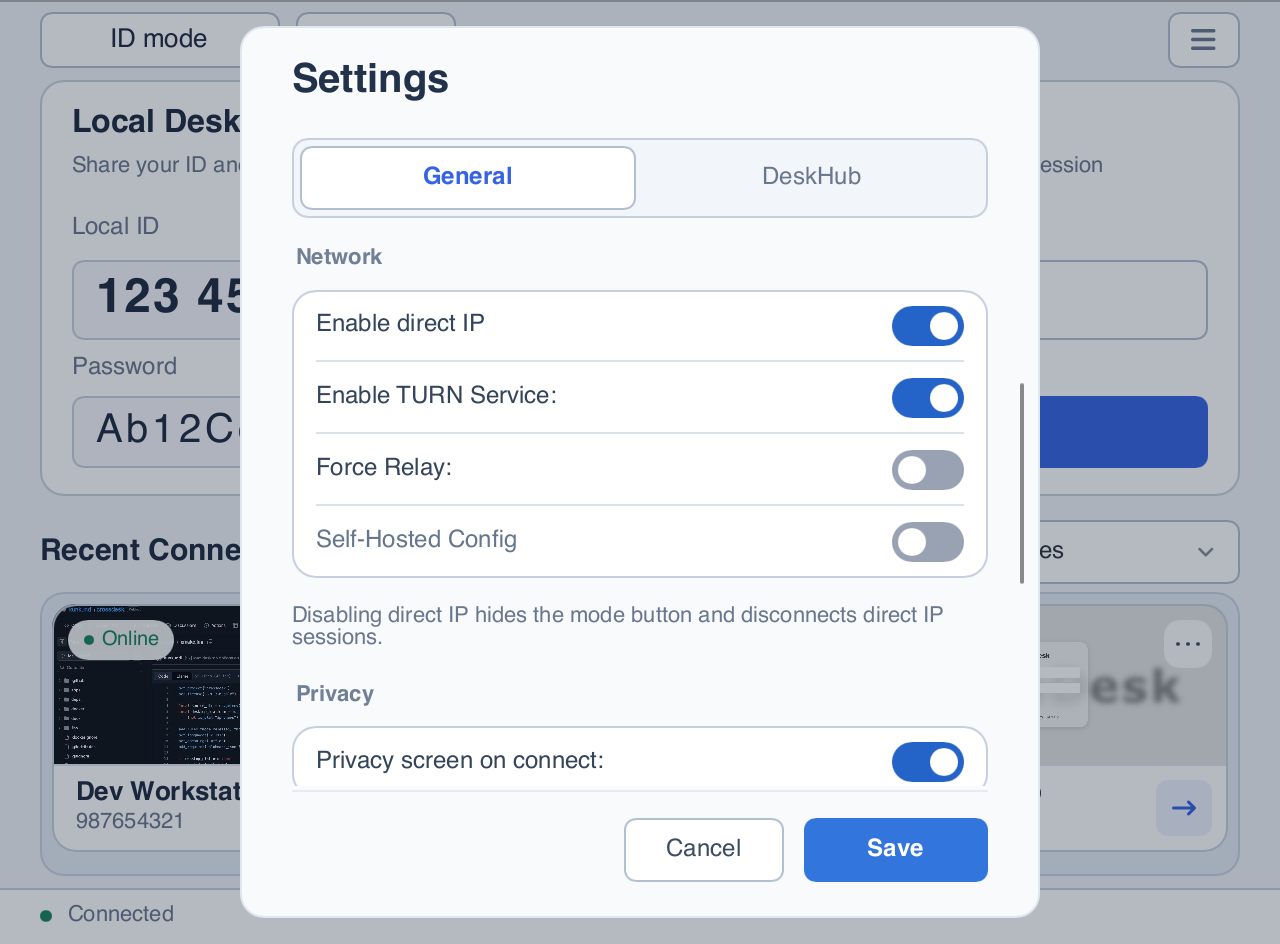
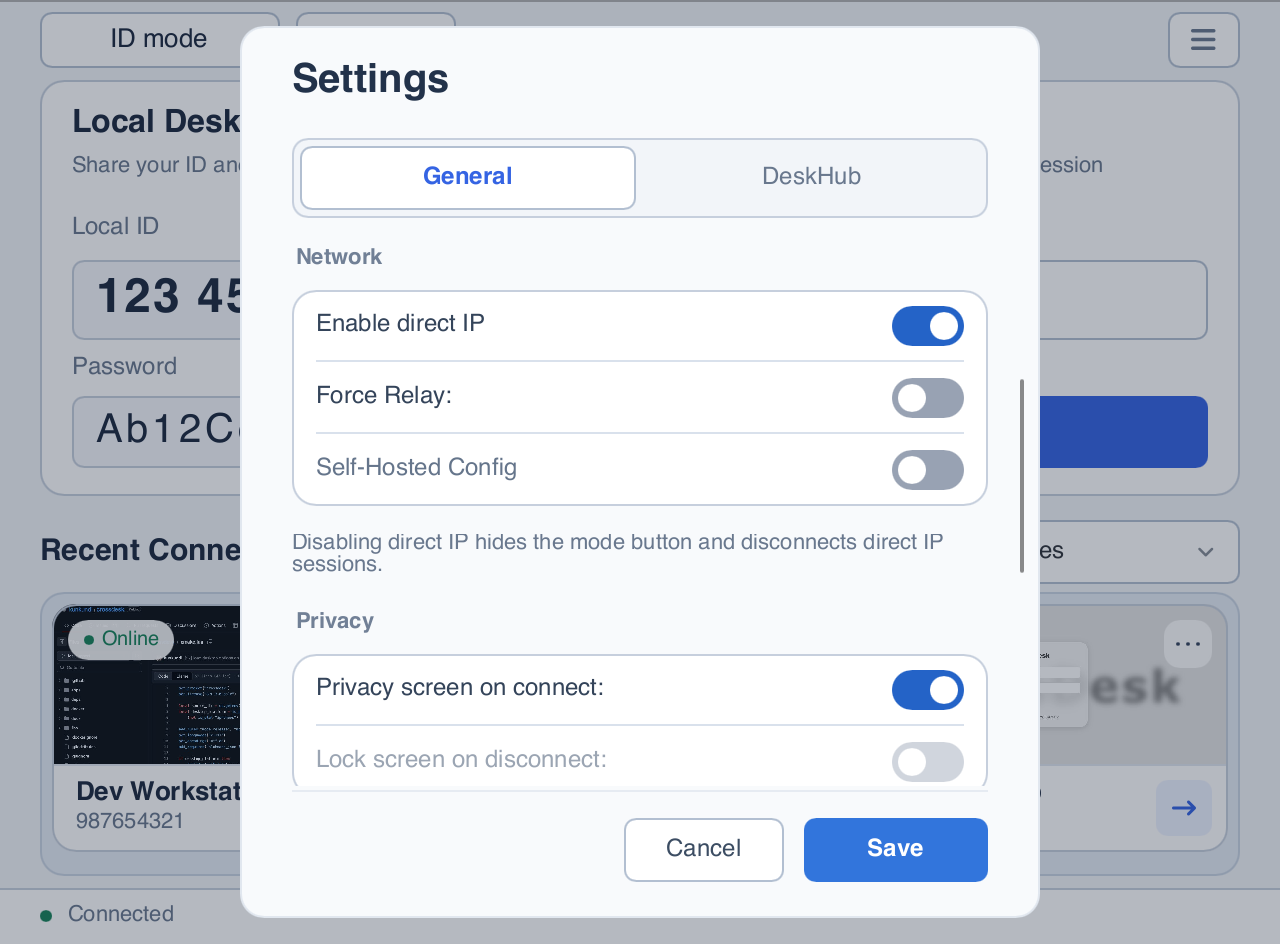
[ui] remove TURN service toggle and simplify relay settings

diff --git a/apps/desktop/src/gui/application/gui_application.cpp b/apps/desktop/src/gui/application/gui_application.cpp
@@ -1488,7 +1488,6 @@ void GuiApplication::ResetSettingsUi(bool gallery_window) {
   auto& main = ui_->Window(gallery_window);
   main->set_language_index(language_button_value_);
   main->set_codec_index(video_encode_format_button_value_);
-  main->set_turn_enabled(enable_turn_);
   main->set_ip_direct_enabled_draft(config_center_->IsIpDirectEnabled());
   main->set_settings_save_error("");
   main->set_force_relay_enabled(config_center_->IsForceRelay());
@@ -4559,7 +4558,6 @@ bool GuiApplication::SaveSettingsFromUi(bool gallery_window) {
   language_button_value_ =
       localization::detail::ClampLanguageIndex(main->get_language_index());
   video_encode_format_button_value_ = std::clamp(main->get_codec_index(), 0, 1);
-  enable_turn_ = main->get_turn_enabled();
   enable_self_hosted_ = main->get_self_hosted_enabled();
 #if !defined(__OHOS__)
   enable_autostart_ = main->get_autostart_enabled();
@@ -4575,7 +4573,7 @@ bool GuiApplication::SaveSettingsFromUi(bool gallery_window) {
   config_center_->SetVideoEncodeFormat(
       static_cast<ConfigCenter::VIDEO_ENCODE_FORMAT>(
           video_encode_format_button_value_));
-  config_center_->SetTurn(enable_turn_, main->get_force_relay_enabled());
+  config_center_->SetForceRelay(main->get_force_relay_enabled());
   main->set_force_relay_enabled(config_center_->IsForceRelay());
 #if !defined(__OHOS__)
   config_center_->SetAutostart(enable_autostart_);
@@ -4641,7 +4639,6 @@ void GuiApplication::ApplySettingsFromConfig(bool reconnect) {
   localization_language_index_ = localization::detail::ClampLanguageIndex(language_button_value_);
   localization_language_ = config_center_->GetLanguage();
   video_encode_format_button_value_ = static_cast<int>(config_center_->GetVideoEncodeFormat());
-  enable_turn_ = config_center_->IsEnableTurn();
   enable_self_hosted_ = config_center_->IsSelfHosted();
   enable_autostart_ = config_center_->IsEnableAutostart();
   enable_daemon_ = config_center_->IsEnableDaemon();
@@ -4655,7 +4652,6 @@ void GuiApplication::ApplySettingsFromConfig(bool reconnect) {
   std::snprintf(signal_server_port_self_, sizeof(signal_server_port_self_), "%s", port_text.c_str());
   language_button_value_last_ = language_button_value_;
   video_encode_format_button_value_last_ = video_encode_format_button_value_;
-  enable_turn_last_ = enable_turn_;
   enable_self_hosted_last_ = enable_self_hosted_;
   enable_autostart_last_ = enable_autostart_;
   enable_daemon_last_ = enable_daemon_;

diff --git a/apps/desktop/src/gui/features/settings/settings_manager.cpp b/apps/desktop/src/gui/features/settings/settings_manager.cpp
@@ -465,7 +465,6 @@ int SettingsManager::Load() {
       static_cast<int>(owner_.config_center_->GetLanguage()));
   owner_.video_encode_format_button_value_ =
       static_cast<int>(owner_.config_center_->GetVideoEncodeFormat());
-  owner_.enable_turn_ = owner_.config_center_->IsEnableTurn();
   owner_.enable_self_hosted_ = owner_.config_center_->IsSelfHosted();
   owner_.enable_autostart_ = owner_.config_center_->IsEnableAutostart();
   owner_.enable_daemon_ = owner_.config_center_->IsEnableDaemon();
@@ -484,7 +483,6 @@ int SettingsManager::Load() {
   owner_.language_button_value_last_ = owner_.language_button_value_;
   owner_.video_encode_format_button_value_last_ =
       owner_.video_encode_format_button_value_;
-  owner_.enable_turn_last_ = owner_.enable_turn_;
   owner_.enable_self_hosted_last_ = owner_.enable_self_hosted_;
   owner_.enable_autostart_last_ = owner_.enable_autostart_;
 

diff --git a/apps/desktop/src/config_center/config_center.h b/apps/desktop/src/config_center/config_center.h
@@ -41,7 +41,7 @@ class ConfigCenter {
   int SetScreenCaptureMethod(ScreenCaptureMethod method);
   int SetVideoEncodeFormat(VIDEO_ENCODE_FORMAT video_encode_format);
   int SetTurnMode(TURN_MODE turn_mode);
-  int SetTurn(bool enable_turn, bool force_relay);
+  int SetForceRelay(bool force_relay);
   int SetServerHost(const std::string& signal_server_host);
   int SetServerPort(int signal_server_port);
   int SetServerEndpoint(const std::string& address, int port);
@@ -63,7 +63,6 @@ class ConfigCenter {
   ScreenCaptureMethod GetScreenCaptureMethod() const;
   VIDEO_ENCODE_FORMAT GetVideoEncodeFormat() const;
   TURN_MODE GetTurnMode() const;
-  bool IsEnableTurn() const;
   bool IsForceRelay() const;
   bool IsEnableSrtp() const;
   std::string GetSignalServerHost() const;

diff --git a/apps/desktop/src/gui/assets/localization/localization_data.h b/apps/desktop/src/gui/assets/localization/localization_data.h
@@ -237,8 +237,6 @@ struct TranslationRow {
     "Video Encode Format:", u8"Формат кодека видео:")                          \
   X(av1, u8"AV1", "AV1", "AV1")                                                \
   X(h264, u8"H.264", "H.264", "H.264")                                         \
-  X(enable_turn, u8"启用中继服务:",                                            \
-    "Enable TURN Service:", u8"Включить TURN-сервис:")                         \
   X(force_relay, u8"强制中继连接:", "Force Relay:", u8"Только через реле:")   \
   X(self_hosted_server_config, u8"自托管配置", "Self-Hosted Config",           \
     u8"Конфигурация self-hosted")                                              \

diff --git a/apps/desktop/src/config_center/config_center.cpp b/apps/desktop/src/config_center/config_center.cpp
@@ -319,10 +319,7 @@ int ConfigCenter::SetTurnMode(TURN_MODE mode) {
   return 0;
 }
 
-int ConfigCenter::SetTurn(bool enable_turn, bool force_relay) {
-  if (!enable_turn) {
-    return SetTurnMode(TURN_MODE::DISABLED);
-  }
+int ConfigCenter::SetForceRelay(bool force_relay) {
   if (!force_relay) {
     return SetTurnMode(TURN_MODE::AUTO_UDP_TCP);
   }
@@ -477,10 +474,6 @@ ConfigCenter::VIDEO_ENCODE_FORMAT ConfigCenter::GetVideoEncodeFormat() const {
 
 ConfigCenter::TURN_MODE ConfigCenter::GetTurnMode() const {
   return turn_mode_;
-}
-
-bool ConfigCenter::IsEnableTurn() const {
-  return turn_mode_ != TURN_MODE::DISABLED;
 }
 
 bool ConfigCenter::IsForceRelay() const {

diff --git a/apps/desktop/src/gui/runtime/runtime_state.h b/apps/desktop/src/gui/runtime/runtime_state.h
@@ -150,13 +150,11 @@ struct UserSettingsState {
   char connection_login_identity_[17] = "";
   int language_button_value_ = 0;
   int video_encode_format_button_value_ = 0;
-  bool enable_turn_ = true;
   char signal_server_ip_[256] = "api.crossdesk.cn";
   char signal_server_port_[6] = "9099";
   bool enable_self_hosted_ = false;
   int language_button_value_last_ = 0;
   int video_encode_format_button_value_last_ = 0;
-  bool enable_turn_last_ = true;
   bool enable_self_hosted_last_ = false;
   bool enable_autostart_ = false;
   bool enable_autostart_last_ = false;

diff --git a/apps/desktop/src/gui/ui/ui_localization.h b/apps/desktop/src/gui/ui/ui_localization.h
@@ -93,7 +93,6 @@ inline int ApplyMainWindowStrings(
   strings.set_capture_method_auto(
       Text(localization::screen_capture_method_auto[language]));
   strings.set_codec(Text(localization::video_encode_format[language]));
-  strings.set_turn_relay(Text(localization::enable_turn[language]));
   strings.set_force_relay(Text(localization::force_relay[language]));
   strings.set_self_hosted(
       Text(localization::self_hosted_server_config[language]));

diff --git a/docs/images/README.md b/docs/images/README.md
@@ -4,6 +4,7 @@
 
 ## 来源 / Sources
 
+- **2026-10-25** 删除“启用中继服务”开关后，从当前工作区组件重新生成 `desktop-settings-*` 和 `desktop-settings-network-*` 共 4 张中英文截图，展示可独立操作的“强制中继连接”。
 - **2026-10-25** 从 `ae6f81e8` 的实际 Slint 组件重新生成 16 张中英文截图：更新主窗口、常规设置、桌面墙设置、自托管及关于共 10 张，新增 IP 直连主界面、记住密码弹窗和网络设置共 6 张。使用 Slint 1.17.1、macOS arm64 和 2× 软件渲染。
 - 捕获程序在**工程外临时目录**中复用现有 [`slint_ui_smoke_test`](../../apps/desktop/tests/slint_ui_smoke_test.cpp) 的截图辅助函数，并注入演示界面状态；没有启动应用运行时、打开监听端口或建立远控会话。没有修改产品组件或工程内测试，临时源码、可执行程序与 PPM 均位于工程外。
 - 主窗口展示 ID / IP 模式切换、桌面墙入口和各自的近期设备；IP 模式展示地址编辑、六位密码和默认端口 52888，网络设置展示“启用 IP 直连”及关闭说明。IP 近期设备的 `LAN` 标记表示记录类型，不代表在线探测结果。
@@ -13,7 +14,7 @@
 - 缩略图沿用既有公开页面截图：`fixtures/source.png` 来自 [CrossDesk Xmake 源码页](https://github.com/kunkundi/crossdesk/blob/ios-support/xmake.lua)，`fixtures/website.png` 来自 [CrossDesk 官网](https://www.crossdesk.cn/)，两者采集于 2026-09-07。它们只用于展示预览效果，不代表这些页面正在对应设备上运行，页面中的版本信息也不代表最新发布。
 - `web-client.png` 保留 **2026-09-25** 从 [Web 客户端](https://web.crossdesk.cn/) 采集的 1280 × 720 连接首页，页面版本为 `2026.09.24.2`，ID 与密码为空。本次未重新采集 Web 页面；桌面设备预览继续复用这张图片。
 
-On **2026-10-25**, 16 images were rendered from the actual Slint components at `ae6f81e8`: ten refreshed images (main window, General settings, DeskHub settings, self-hosting, and About) and six additions (Direct IP mode, its password dialog, and Network settings), in Chinese and English. The capture-only program reused the existing helper functions in an external temporary directory, using Slint 1.17.1 on macOS arm64 at 2× scale. No product components or repository tests were changed, and no listeners or remote sessions were opened. IDs, IPs, passwords, device records, connection states, and update results are illustrative; `LAN` labels indicate record type, not an online check. The checked Remember password box is a demonstration choice. The other six desktop screenshots remain from 2026-10-19, public-page fixtures from 2026-09-07, and the Web image from 2026-09-25. Native mobile screenshots are not included.
+On **2026-10-25**, 16 images were rendered from the actual Slint components at `ae6f81e8`: ten refreshed images (main window, General settings, DeskHub settings, self-hosting, and About) and six additions (Direct IP mode, its password dialog, and Network settings), in Chinese and English. Later that day, the four General and Network settings images were refreshed from the working tree after removing Enable TURN Service, showing the independent Force Relay switch. The capture-only program reused the existing helper functions in an external temporary directory, using Slint 1.17.1 on macOS arm64 at 2× scale. Capture did not modify product components or repository tests, and no listeners or remote sessions were opened. IDs, IPs, passwords, device records, connection states, and update results are illustrative; `LAN` labels indicate record type, not an online check. The checked Remember password box is a demonstration choice. The other six desktop screenshots remain from 2026-10-19, public-page fixtures from 2026-09-07, and the Web image from 2026-09-25. Native mobile screenshots are not included.
 
 ## 文件 / Files
 
@@ -112,7 +113,6 @@ int main() {
       !RegisterFontAwesome(server->window())) return 2;
   window->set_local_id("123 456 789");
   window->set_local_password("Ab12Cd");
-  window->set_turn_enabled(true);
   window->window().set_size(slint::LogicalSize({640.0f, 472.0f}));
   return RunCaptureMode(options, window, stream, server);
 }

diff --git a/docs/USER_GUIDE_EN.md b/docs/USER_GUIDE_EN.md
@@ -149,8 +149,7 @@ Open **☰ → Settings** in the top-right corner, choose **General / DeskHub**,
 | Capture Method (Windows) | Auto / DXGI / WGC / GDI; choose Auto for automatic headless adaptation |
 | Video Encode Format | H.264 / AV1; H.264 automatically prefers hardware codecs, with software fallback when unavailable or initialization fails; desktop AV1 uses software codecs |
 | Enable direct IP | Enabled by default; saving starts or stops direct IP immediately. Disabling disconnects IP sessions, stops listeners, and hides the mode button; the choice persists across restarts |
-| Enable TURN Service | Allow relay-assisted connections; check this setting if P2P fails |
-| Force Relay | Require relay connections when TURN is enabled; turning TURN off also disables this option |
+| Force Relay | When off, automatically select a connection path with P2P and TURN relay fallback; when on, use relay connections only |
 | Save remote screen previews | On by default. When disabled, the thumbnail area shows the remote device’s platform and existing previews are cleared; connection records and passwords are preserved |
 | Privacy screen on connect | Automatically enable privacy when this computer is controlled remotely; the controller can toggle it from the session toolbar |
 | Self-Hosted Config | Set the server address and signaling port, then enable the checkbox |

diff --git a/docs/USER_GUIDE.md b/docs/USER_GUIDE.md
@@ -149,8 +149,7 @@ sudo apt install "./crossdesk-virtual-desktop-xfce-linux-amd64-<version>.deb"
 | 采集方式（Windows） | 自动 / DXGI / WGC / GDI；无显示器主机使用“自动”启用自动适配 |
 | 视频编码格式 | H.264 / AV1；H.264 自动优先使用硬件编解码，不可用或初始化失败时回退到软件；桌面端 AV1 使用软件编解码 |
 | 启用 IP 直连 | 默认开启；保存后即时启停 IP 直连。关闭会断开 IP 会话、停止监听并隐藏主窗口模式按钮，重启后保持 |
-| 启用中继服务 | 允许借助 TURN 中继建立连接；P2P 连接失败时先检查此项 |
-| 强制中继连接 | 启用中继服务后可勾选，让连接通过中继建立；关闭中继服务会同时关闭此项 |
+| 强制中继连接 | 关闭时自动选择连接方式，允许 P2P 和 TURN 中继回退；开启时仅通过中继连接 |
 | 保存远程画面预览 | 默认开启，保存远程画面预览；关闭后缩略图区域显示被控端平台，并清除已有预览，保留连接记录和密码 |
 | 被连接时开启隐私屏 | 设置本机被远程连接时是否自动启用隐私屏；会话中可从控制端工具栏切换 |
 | 自托管配置 | 填写服务器地址和信令服务端口，并勾选启用 |

diff --git a/docs/SELF_HOSTING.md b/docs/SELF_HOSTING.md
@@ -95,7 +95,7 @@ sudo security add-trusted-cert -d -r trustRoot \
 
 - **未连接服务器 / TLS 错误：** 先检查地址、信令端口、证书有效期、证书主机名及根证书信任。
 - **已连服务器但设备离线：** 确认两端连接同一服务、被控端仍在运行，并重新复制当前 ID。
-- **P2P 连接失败：** 检查“启用中继服务”、Coturn 状态、TURN 端口和媒体端口范围，并核对客户端与服务端版本兼容性。
+- **P2P 连接失败：** 默认已允许中继回退；可开启“强制中继连接”排查直连问题。检查 Coturn 状态、TURN 端口和媒体端口范围，并核对客户端与服务端版本兼容性。
 - **配置修改未生效：** 在配置目录重新执行 `sudo docker compose up -d`；单纯重启容器不会应用修改过的环境变量。
 
 日志、备份和迁移操作请参考 [服务端维护说明](https://github.com/kunkundi/crossdesk-server)。
